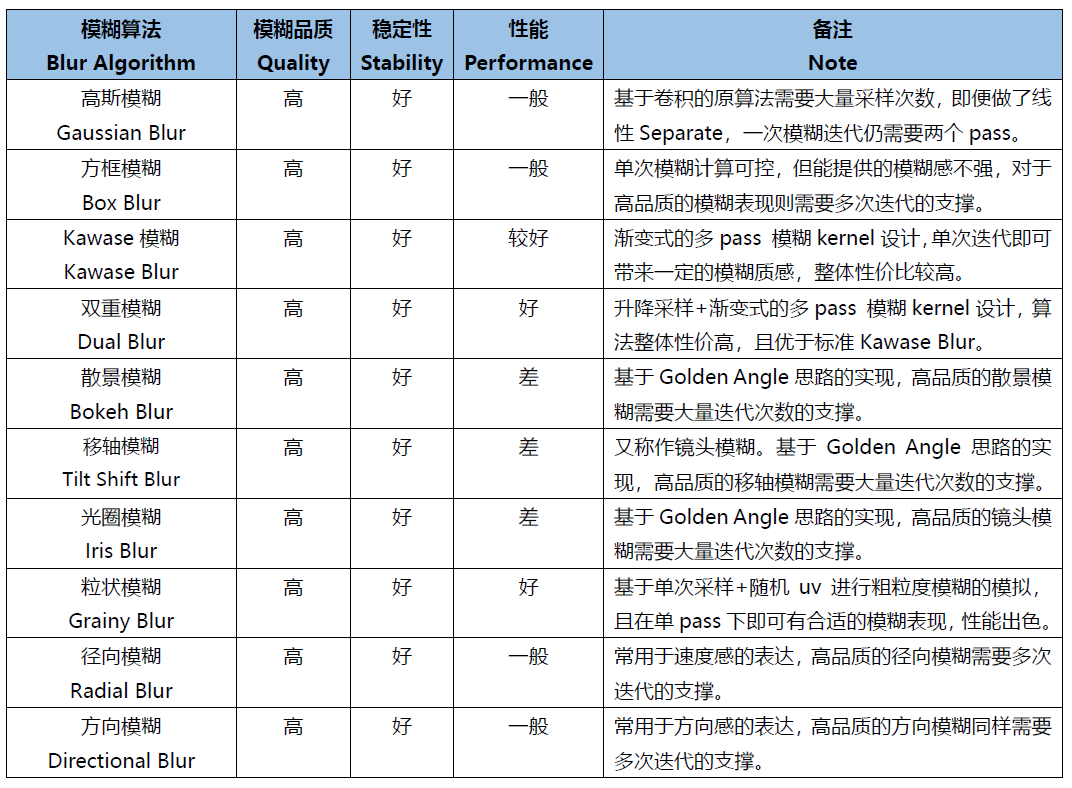
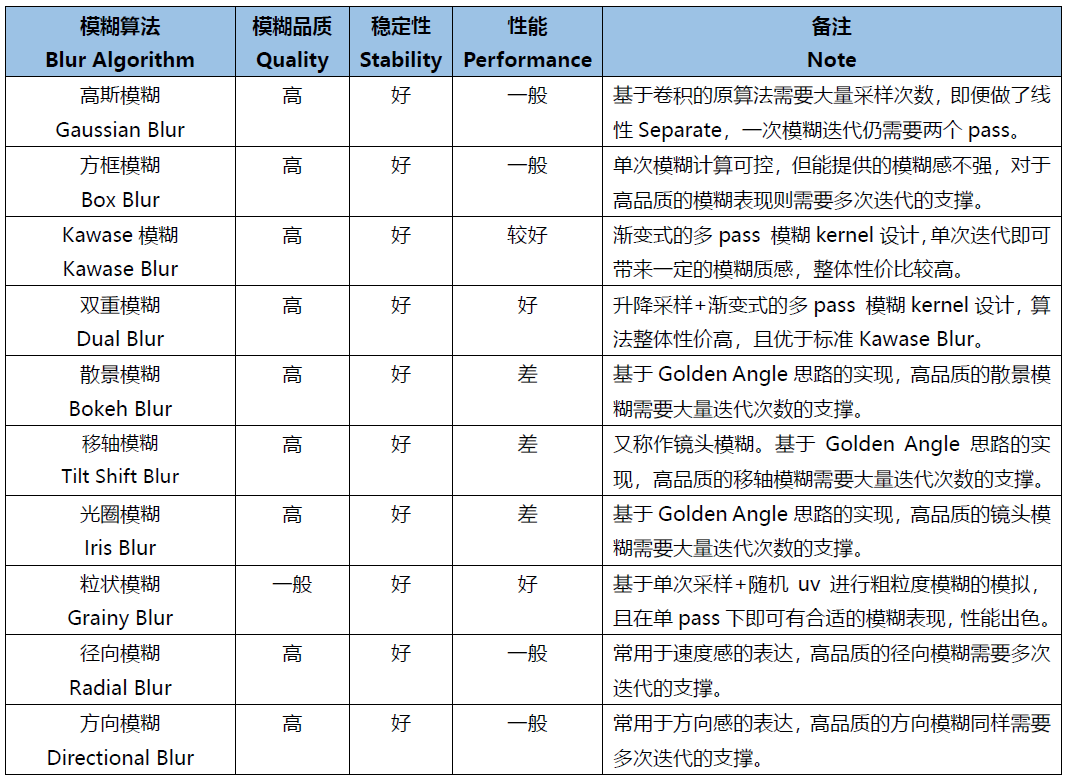
修订《高品质后处理：十种图像模糊算法的总结与实现》
修订《高品质后处理：十种图像模糊算法的总结与实现》

diff --git a/Content/高品质后处理：十种图像模糊算法的总结与实现/README.md b/Content/高品质后处理：十种图像模糊算法的总结与实现/README.md
@@ -85,7 +85,7 @@
 
 ![](media/b82ba2aaa60f290da438450a86ccb48f.png)
 
-从上表的对比可以看到，这十种模糊算法在模糊品质和稳定性这两方面都获得了不错的评级，这是因为给到足够的迭代次数，且不做RT的DownSample，他们都可以收敛到一个高品质的模糊质感。
+从上表的对比可以看到，除了Grainy Blur的模糊质感因其特殊性获得了一般的模糊品质评级之外，另外九种模糊算法在模糊品质和稳定性这两方面都获得了不错的评级。这是因为给到足够的迭代次数，且不做RT的DownSample，他们都可以收敛到一个高品质的模糊质感。
 
 最终的分化在于性能，这才是评判一种算法性价比是否高，能否广泛用于实时渲染的关键因素。其中，可以看到仅双重模糊（Dual Blur）和粒状模糊（Grainy Blur）两种算法，获得了高的性能评级。当然，这是针对标准的算法而言，其他八种算法如果进行进一步的性能优化，也能具有更佳的性能。
 
